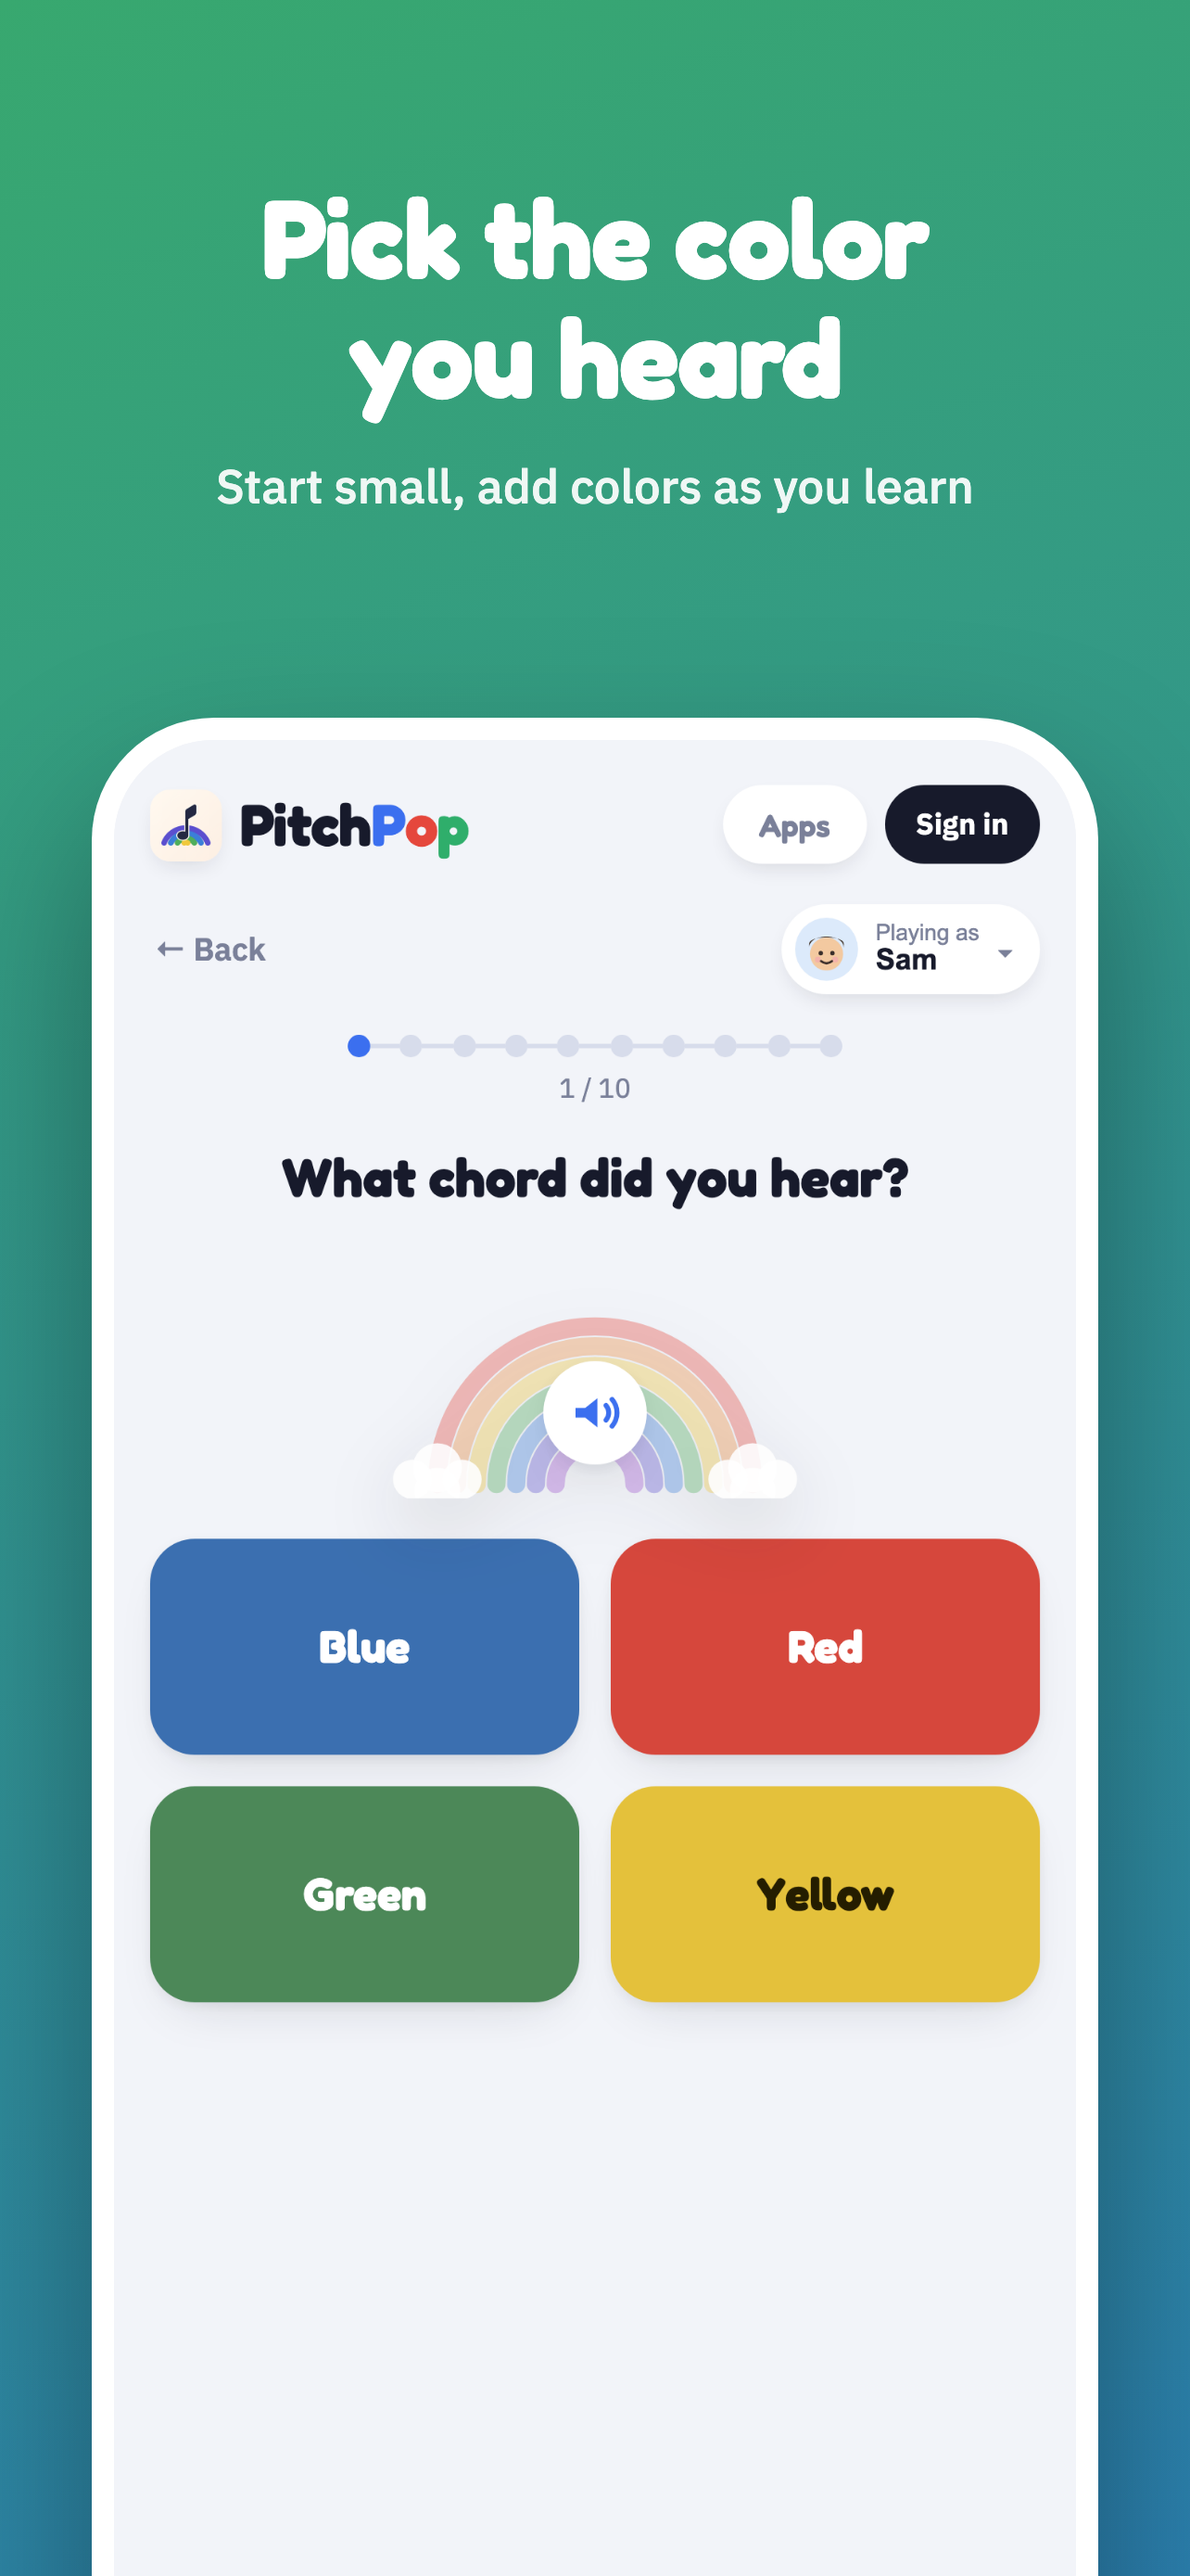
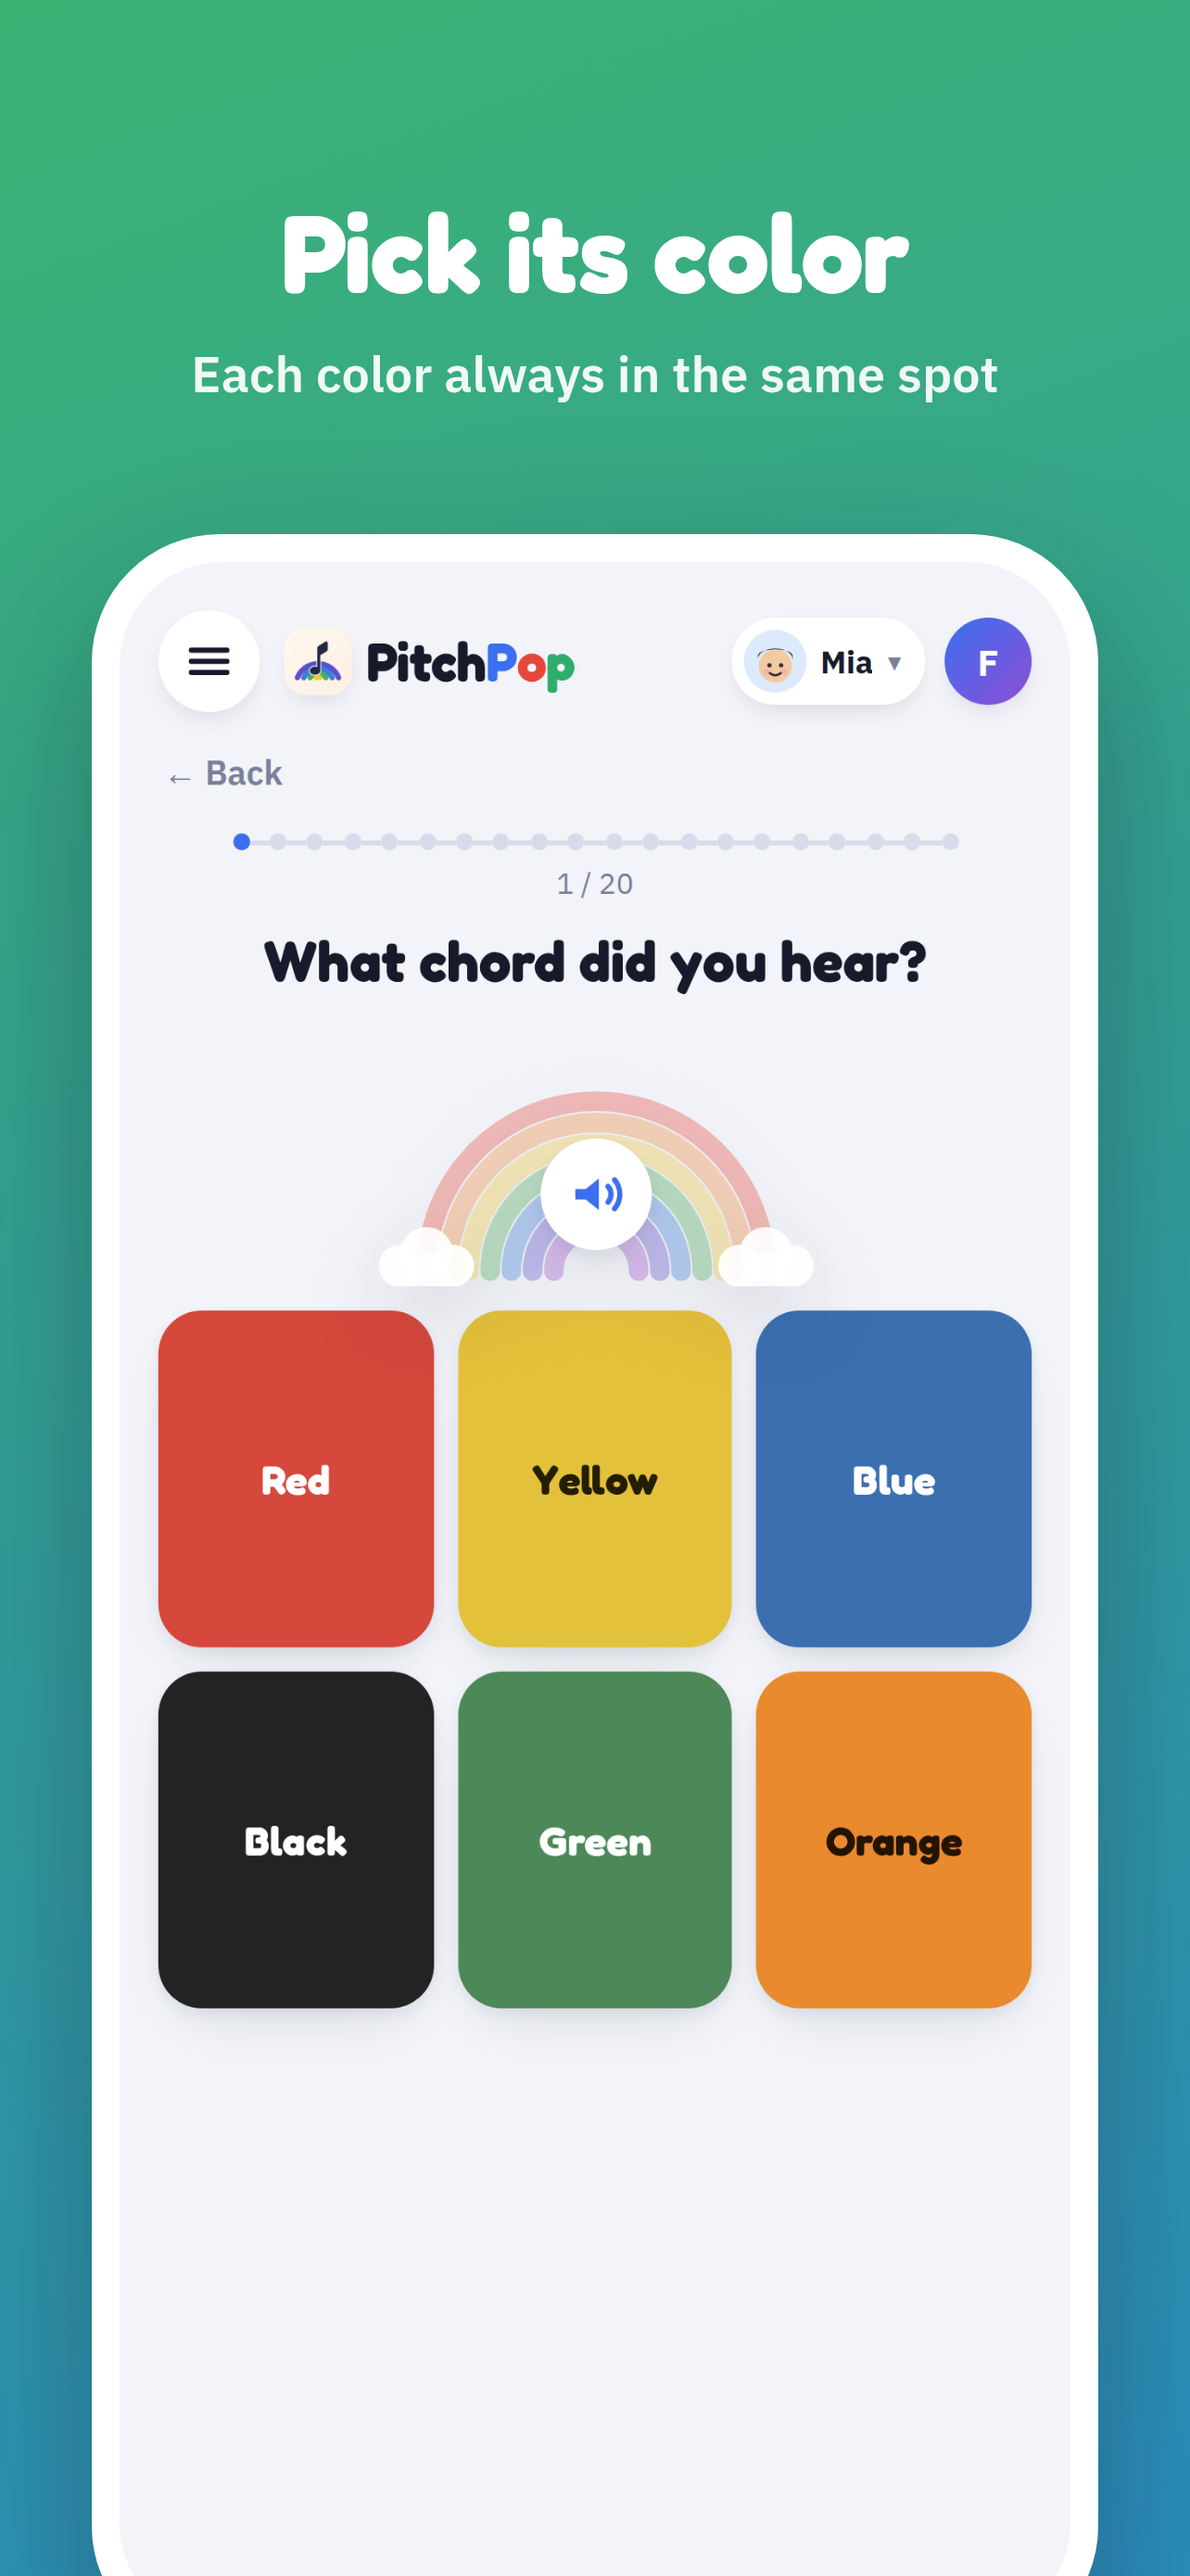
App Store screenshots and text without "kids" (Guideline 2.3.8)
Apple rejected 1.0 (30) because the screenshots said the app was for
kids while it isn't in the Kids category. New screenshots from the
current app (6 per size: home, hear a chord, pick its color, the real
notes, Practice Mode, Explore) with captions that don't mention kids,
and the promotional text, description and keywords reworded. The
first-visit welcome card no longer says "for kids" either.

Claude-Session: https://claude.ai/code/session_018yuJ73tJ7WxVweEUGYdgXx

Changed region(s): [[0.0623, 0.0619, 0.9346, 0.8049], [0.9034, 0.9906, 0.9346, 1.0], [0.0623, 0.9906, 0.0935, 1.0]]

diff --git a/src/App.jsx b/src/App.jsx
@@ -1482,7 +1482,7 @@ export default function App() {
               <div className="welcome-emoji">🌈</div>
               <h2 id="welcome-title">Welcome to PitchPop!</h2>
               <p>
-                A playful way for kids to train their ear. Every chord has its own color: hear a chord, then pick the
+                A playful way to train your ear. Every chord has its own color: hear a chord, then pick the
                 color that matches.
               </p>
               <p>

diff --git a/appstore/listing.md b/appstore/listing.md
@@ -10,10 +10,10 @@ PitchPop
 Hear chords, learn by color
 
 ## Promotional text (170, can change anytime without review)
-Every chord has its own color. Kids tap the rainbow, listen, and pick the matching color — a playful first step toward recognizing pitch by ear.
+Every chord has its own color. Tap the rainbow, listen, and pick the matching color: a playful way to learn to recognize chords by ear.
 
 ## Description (4000)
-PitchPop is a playful ear-training game for kids. Every chord has its own color: red, yellow, blue and more. Kids listen to a chord, then pick the color that matches. Over time they learn to recognize chords by ear.
+PitchPop is a playful ear-training game for families and beginners of any age, based on the Eguchi chord-color method. Every chord has its own color: red, yellow, blue and more. Listen to a chord, then pick the color that matches. Over time you learn to recognize chords by ear.
 
 HOW IT WORKS
 • Tap the rainbow to hear a chord
@@ -31,7 +31,7 @@ PRIVATE BY DESIGN
 No ads, no tracking, no analytics. You don't need an account to play. An optional account lets a family sync its players across devices, and you can delete it anytime from inside the app.
 
 ## Keywords (100, comma-separated, no spaces needed)
-ear training,perfect pitch,chords,music,kids,piano,colors,listening,solfege,music game
+ear training,perfect pitch,chords,music,eguchi,piano,colors,listening,solfege,music game
 
 ## URLs
 - Privacy Policy URL: https://marikalam.github.io/apps/pitchpop/privacy.html
@@ -46,9 +46,14 @@ ear training,perfect pitch,chords,music,kids,piano,colors,listening,solfege,musi
 4+ (answer "None" to every content question in the questionnaire).
 Don't choose the "Made for Kids" category: it requires a parental gate in
 front of every link out of the app and the sign-in screen. PitchPop can
-still be rated 4+ and used by kids without it.
+still be rated 4+ and used by kids without it. Because it isn't in the
+Kids category, the name, subtitle, icon and screenshots must not say it's
+for kids (Guideline 2.3.8): keep that wording out of the screenshots and
+store text.
 
 ## Screenshots
+Six per size, in order: home, hear a chord, pick its color, the real notes,
+Practice Mode, Explore. Upload all six in that order.
 - `screenshots/6.5-inch/` — 1284×2778, for the "iPhone 6.5" Display" slot
   (the one App Store Connect asks for).
 - `screenshots/6.9-inch/` — 1320×2868, for the "iPhone 6.9" Display" slot
